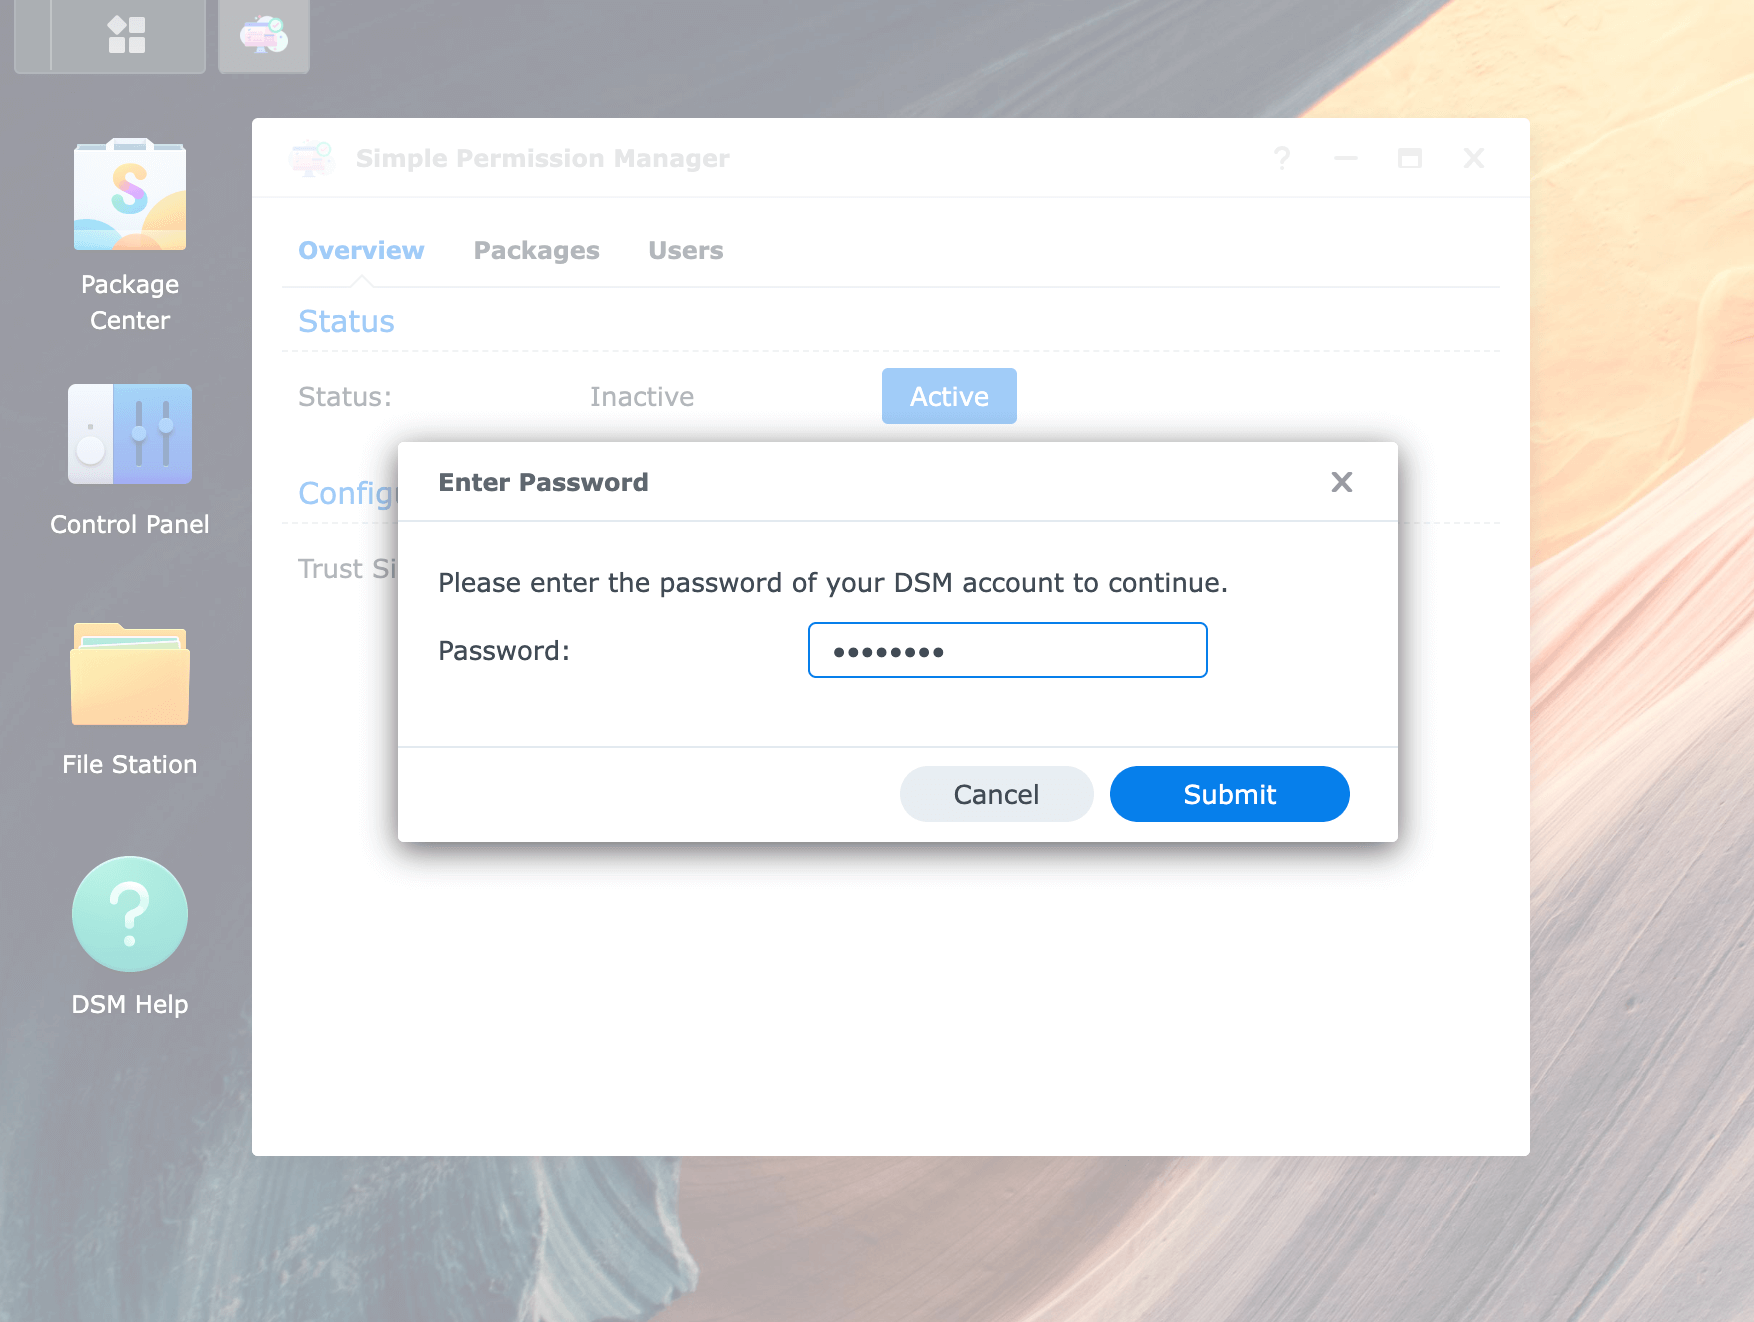
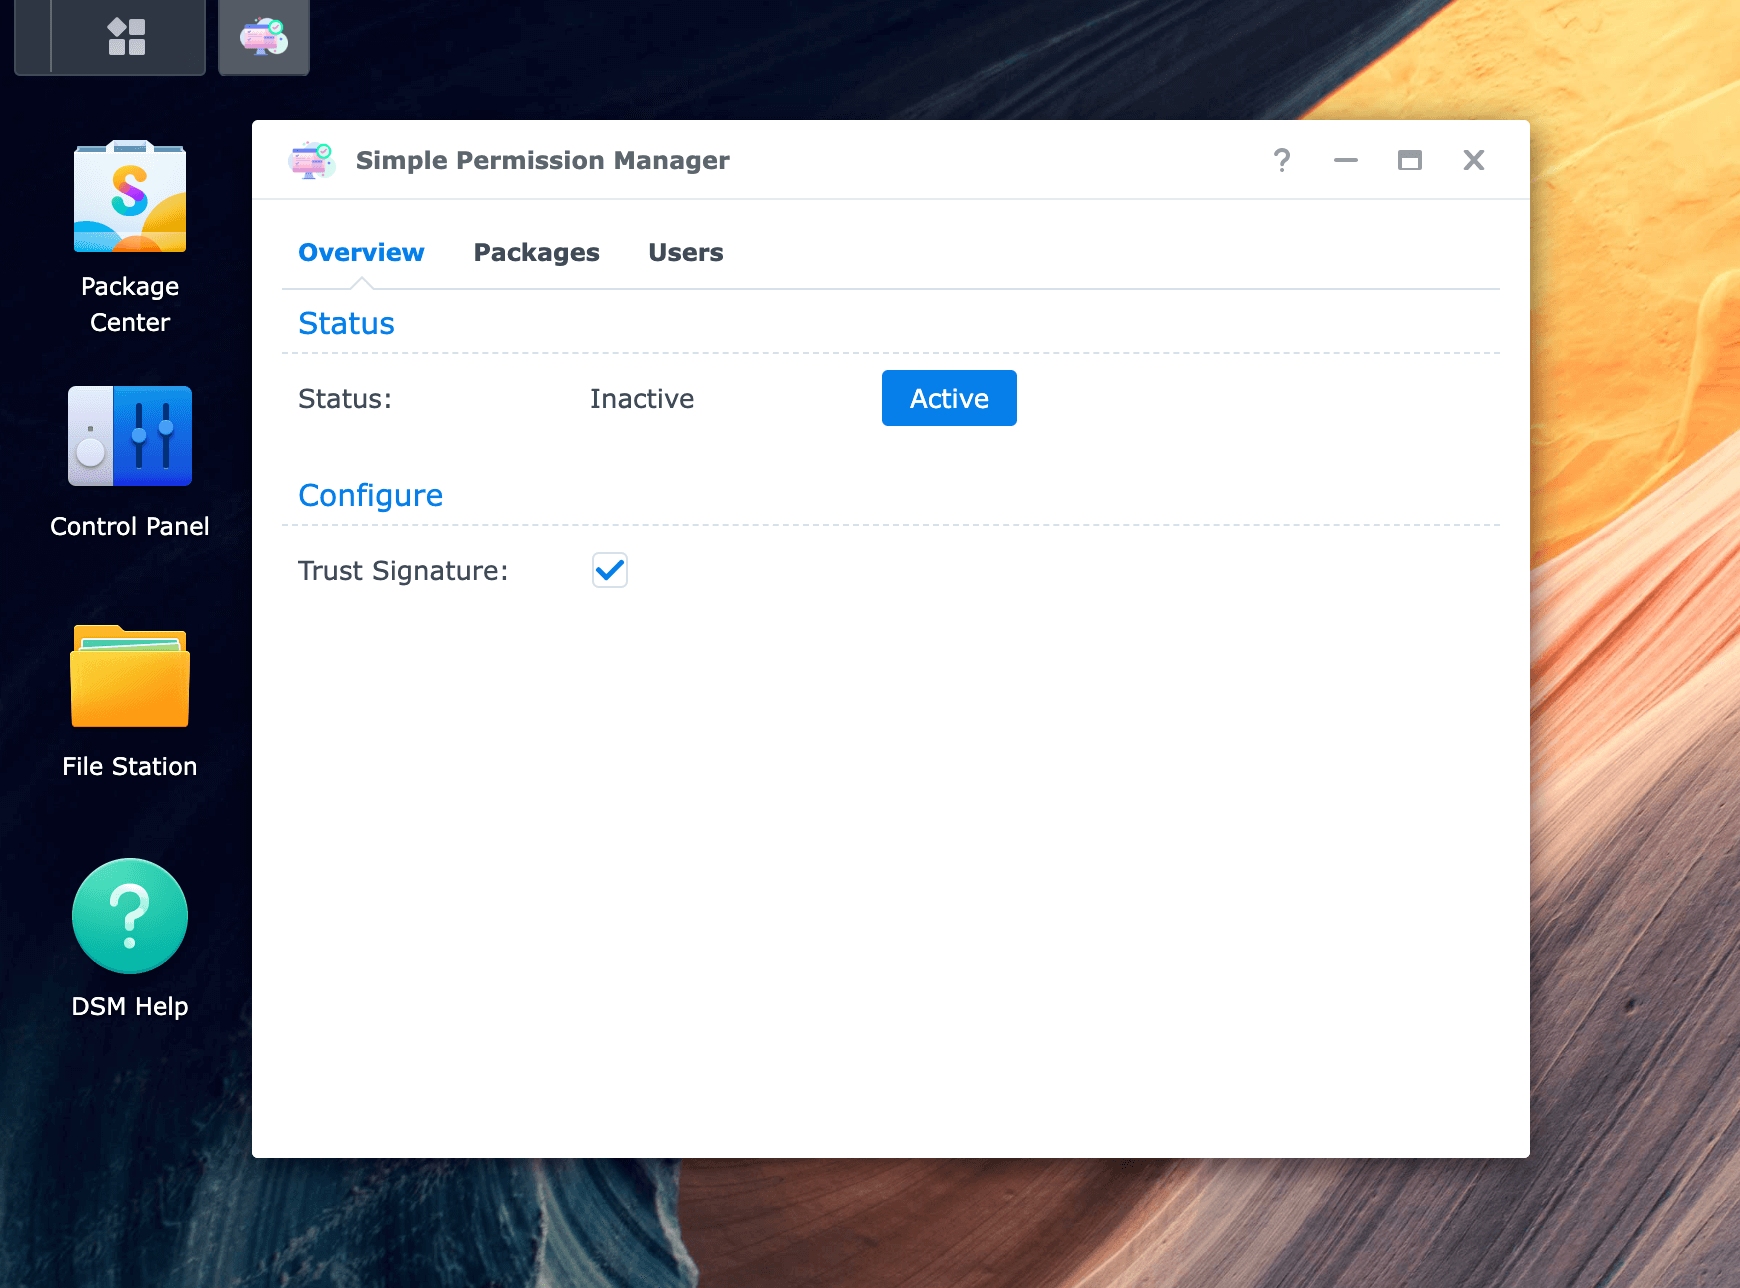
update User Guide image

diff --git a/README.md b/README.md
@@ -12,21 +12,27 @@
 
 ![step 1](docs/images/spm-installation-01.png)
 
-3. Open `Simple Permission Manager` from package list
+3. Open `Simple Permission Manager`
+
+* From `Package Center`
 
 ![step 2](docs/images/spm-installation-02.png)
 
-3. Click `Active` button
+* From `Main Menu`
 
 ![step 3](docs/images/spm-installation-03.png)
 
-4. Type password
+3. Click `Active` button
 
 ![step 4](docs/images/spm-installation-04.png)
 
-5. Actived
+4. Type password
 
 ![step 5](docs/images/spm-installation-05.png)
+
+5. Actived
+
+![step 6](docs/images/spm-installation-06.png)
 
 ### Manually Approve Package Guide
 
